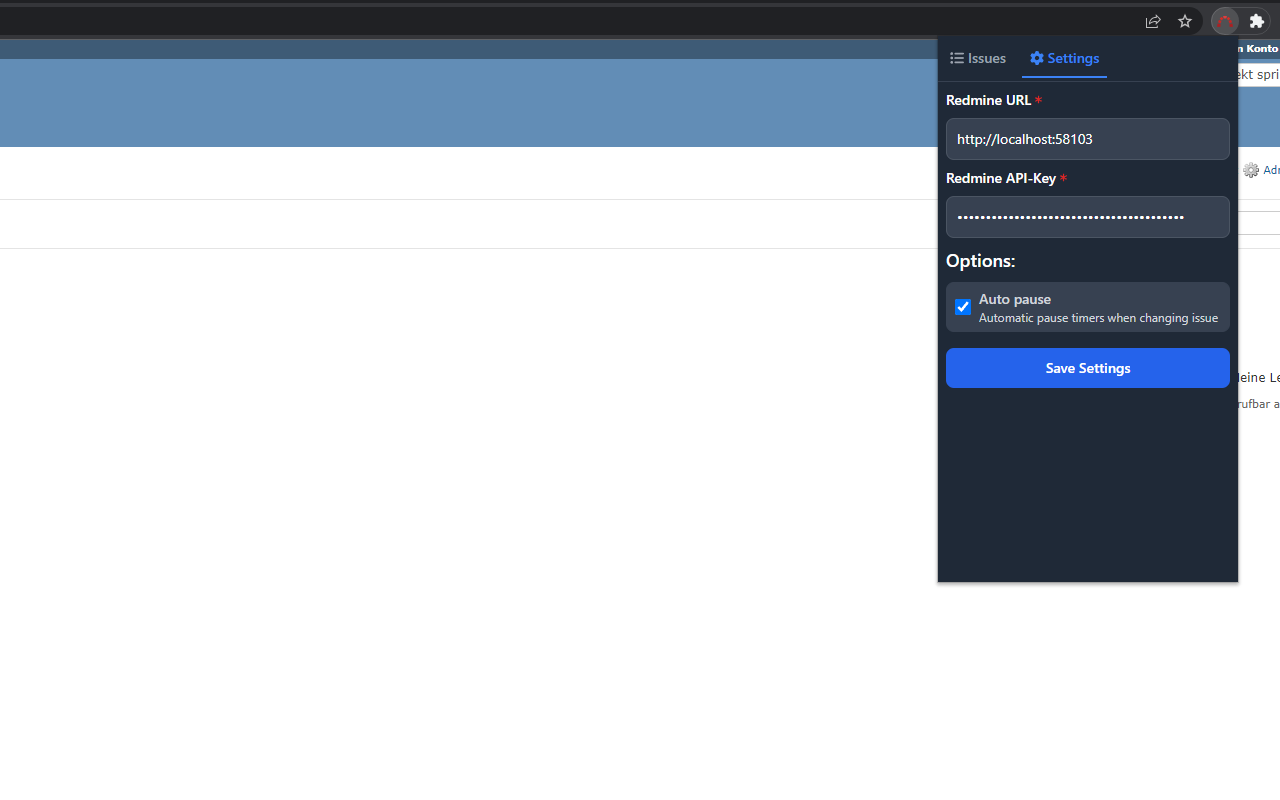
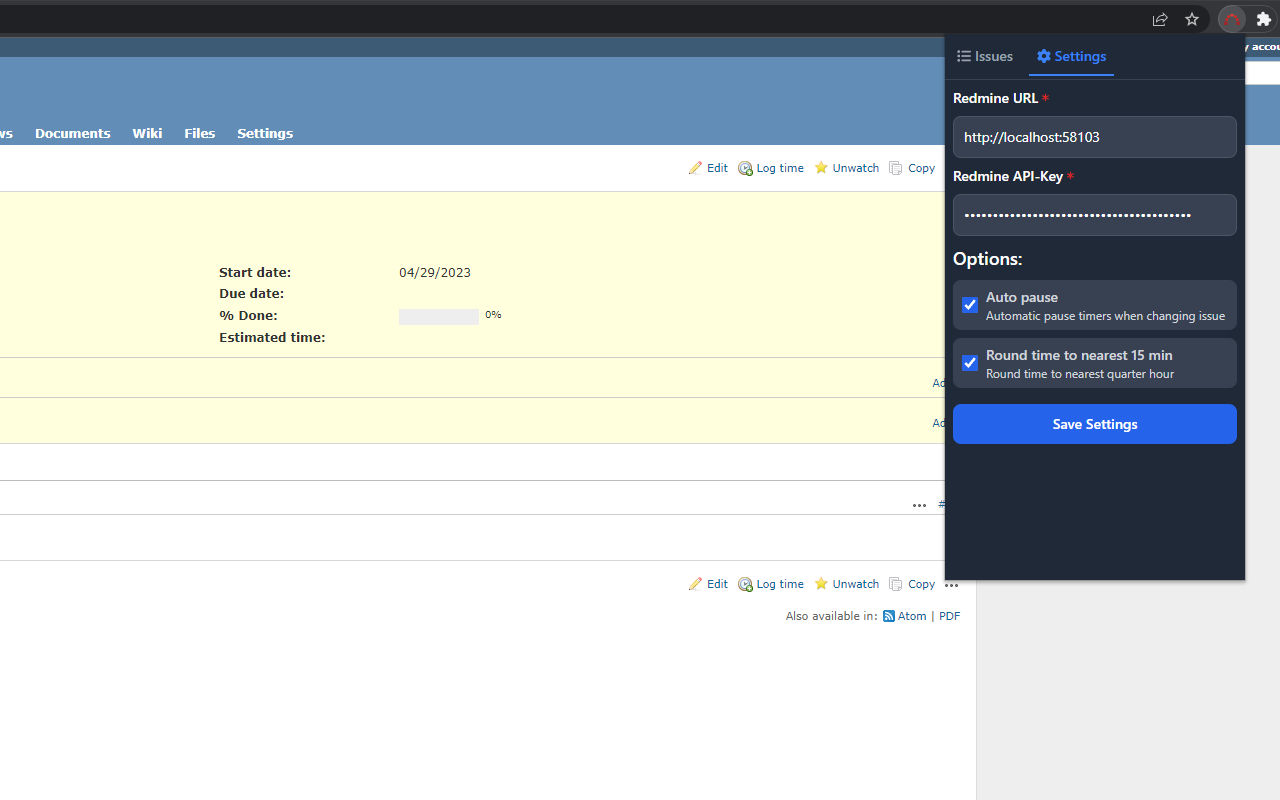
chore: Bump version to 1.2.0
- Bump version to 1.2.0
- Provide new screenshots
- Improved README.md

Changed region(s): [[0.0, 0.0, 1.0, 0.7812], [0.0, 0.1562, 0.25, 0.1875]]

diff --git a/README.md b/README.md
@@ -15,11 +15,22 @@
 [Install Button]: https://img.shields.io/badge/Install-71b500?style=for-the-badge&logoColor=white&logo=DocuSign
 [Install Link]: https://chrome.google.com/webstore/detail/redmine-time-tracking/ldcanhhkffokndenejhafhlkapflgcjg "Open in chrome web store"
 
-View all your assigned Redmine issue.
-Start and stop the timer for your current tasks, then transfer the time to the Redmine issue.
+# Features
+
+- View all your assigned Redmine issues
+- Start and stop the timer for your current tasks
+- Edit timer by double-click on timer
+- Transfer the timer to the Redmine issue
+- Round time to nearest 15 min
+- Search for issue (press `CTRL` + `K` or `CTRL` + `F`)
+- Dark & light mode (system default)
+
+# Screenshots
 
 ![issues](screenshots/issues-dark.png)
-![issues](screenshots/settings-dark.png)
+![settings](screenshots/settings-dark.png)
+![issues-search](screenshots/issues-search-dark.png)
+![issues-edit](screenshots/issues-edit-dark.png)
 
 # Credits
 
